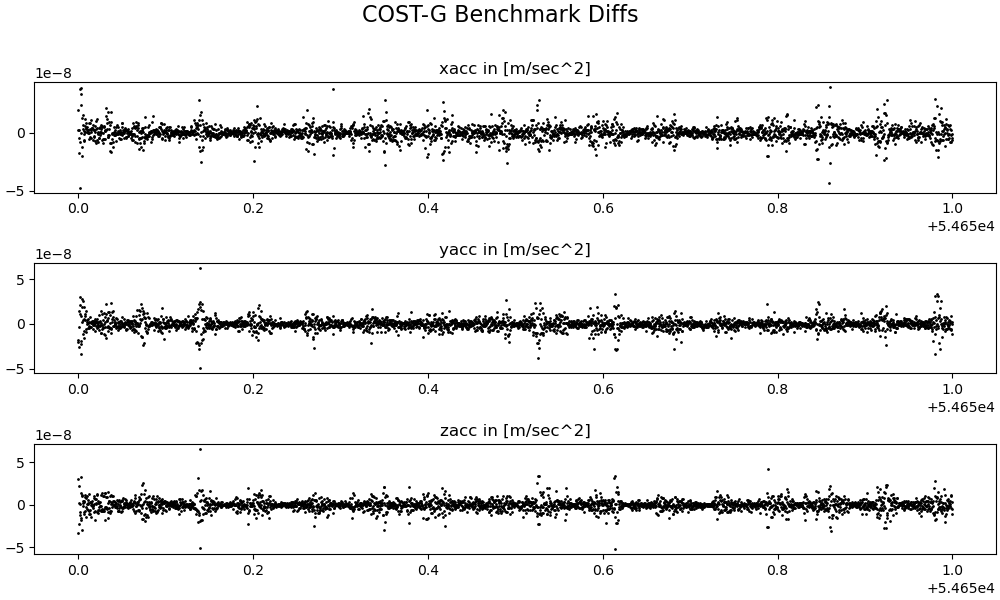
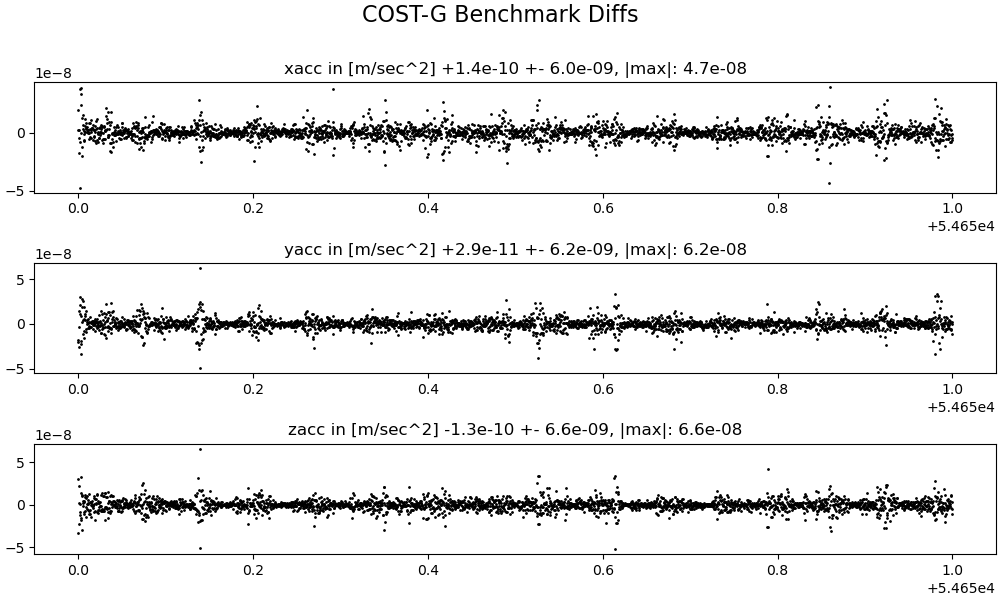
added costg gravity acceleration results

Changed region(s): [[0.279, 0.69, 0.744, 0.75], [0.279, 0.39, 0.744, 0.45], [0.279, 0.09, 0.744, 0.12]]

diff --git a/costg/plot_costg_02gravityfield_itrf.py b/costg/plot_costg_02gravityfield_itrf.py
@@ -1,0 +1,53 @@
+#! /usr/bin/python
+
+import datetime
+import sys, os
+import math
+import numpy as np
+import matplotlib.pyplot as plt
+import matplotlib.dates as mdates
+import argparse
+import requests
+from scipy.interpolate import interp1d
+from matplotlib.backends.backend_pdf import PdfPages
+from matplotlib.ticker import MultipleLocator
+import fileinput
+from scipy import stats
+
+def component(key, lofd): return [ dct[key] for dct in lofd ]
+def units(_): return '[m/sec^2]'
+
+##
+## Read file from STDIN, expect 
+## Mjd xacc yacc zacc [m/sec^2]
+##
+dct = []
+for line in fileinput.input():
+    ## parse file/input
+    if line[0] != '#':
+        l = line.split()
+        try:
+            dct.append({'mjd': float(l[0]), 'xacc':float(l[1]), 'yacc':float(l[2]), 
+                'zacc':float(l[3])})
+        except:
+            print("Failed to parse line: [{:}]; skipped!".format(line.strip()), 
+                file=sys.stderr)
+
+## plot data/diffs
+i = 0; j = 0
+fig, axs = plt.subplots(3, 1, figsize=(10, 6), constrained_layout=True)
+t = component('mjd', dct)
+for y in ['xacc', 'yacc', 'zacc']:
+    r,c = i%3, j
+    i+=1
+    x = component(y, dct)
+    sts = stats.describe(x)
+    _stats = ' {:+.1e} +- {:.1e}, |max|: {:.1e}'.format(sts.mean, math.sqrt(sts.variance), max(abs(sts.minmax[0]), abs(sts.minmax[1])))
+    print(_stats)
+    axs[r].scatter(t,x,s=1,color='black',label=_stats)
+    axs[r].set_title(y + ' in ' + units(y) + _stats)
+
+## Rotate date labels automatically
+fig.suptitle('COST-G Benchmark Diffs\n', fontsize=16)
+plt.savefig('02gravityfield_itrf.png')
+#plt.show()
